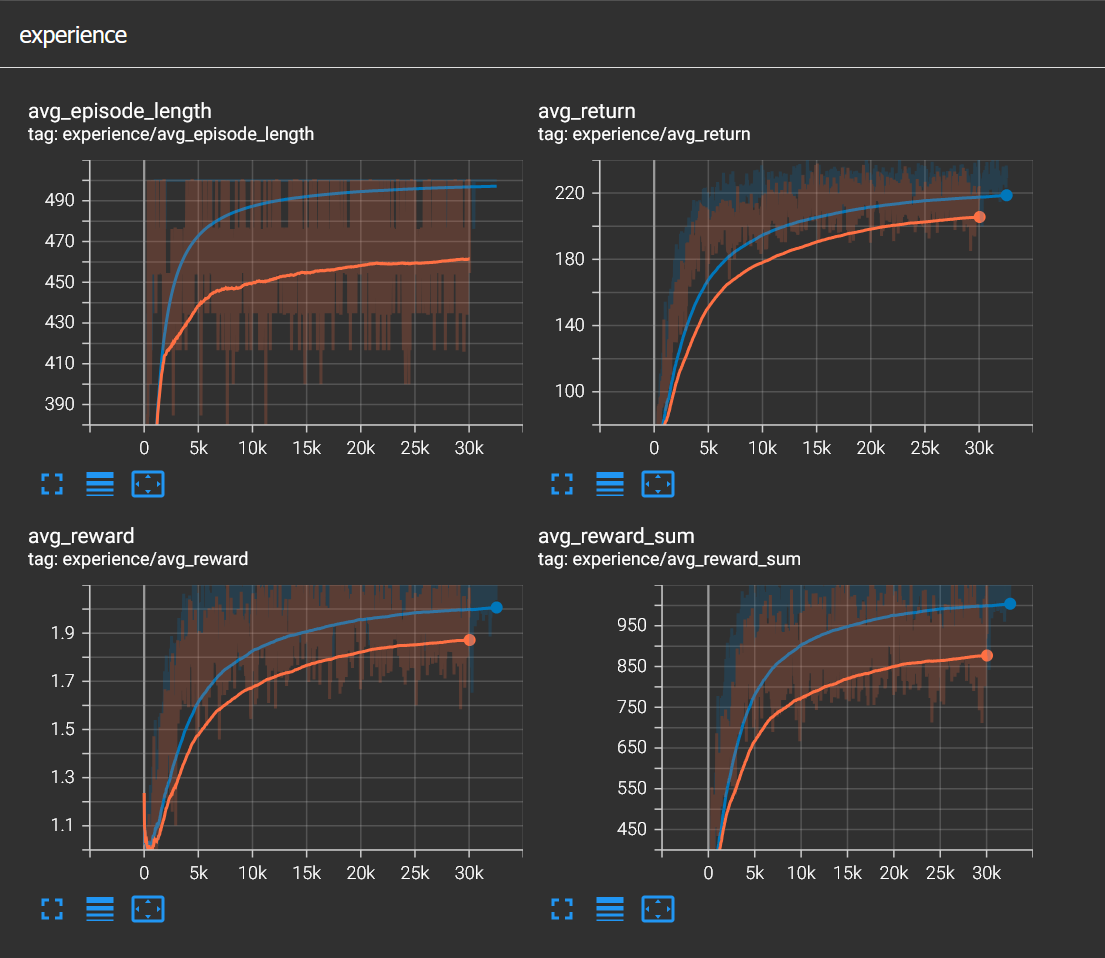
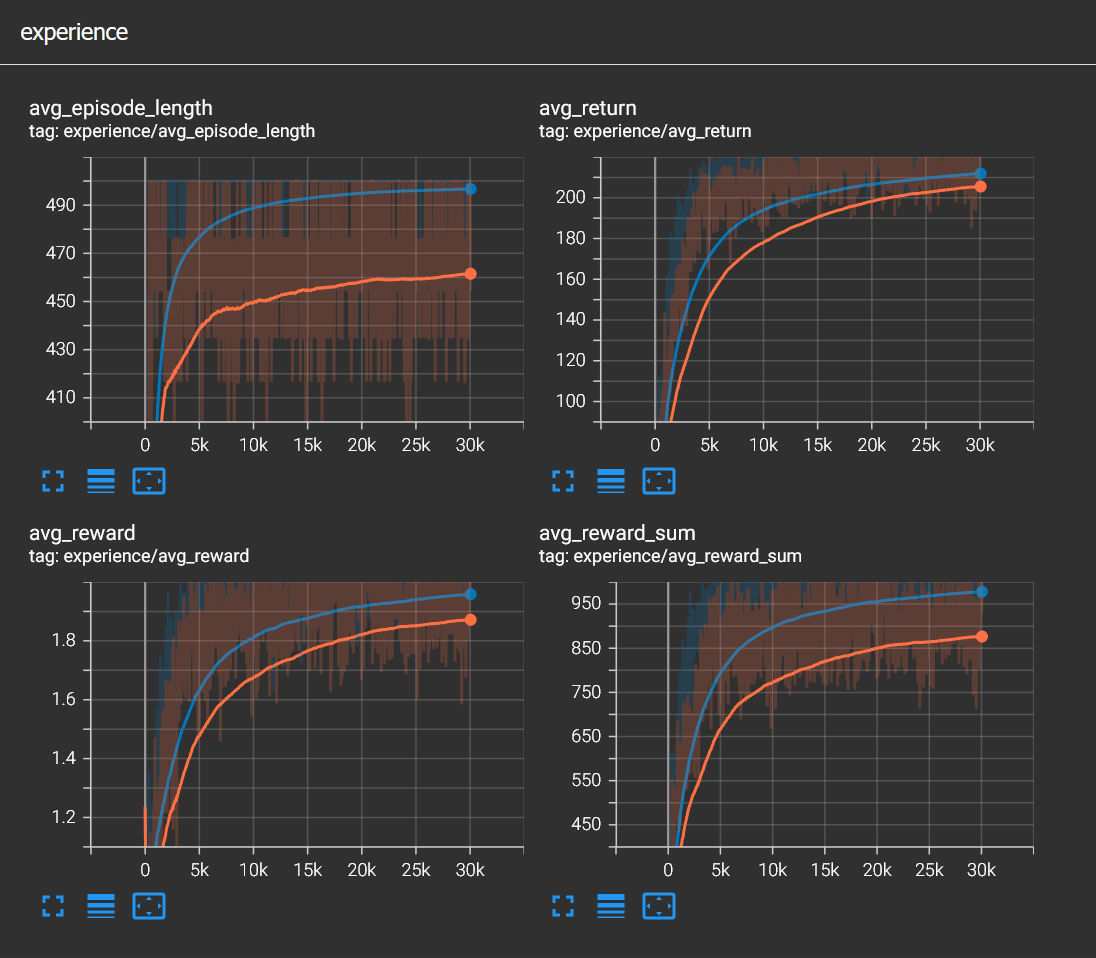
Update post

diff --git a/docs/2026-05-15-baby-steps.html b/docs/2026-05-15-baby-steps.html
@@ -167,11 +167,20 @@ And the agent learned to walk to the target.</p>
     <figcaption>Run, cow, run!</figcaption>
 </figure>
 <p>I love that the agent has developed this cute gallop but I was not satisfied with the gait. The agent relied on one front and one rear leg on opposite sides. To turn right it used rear-left(or rear-right) leg and to turn left it used front-right(or front-left) leg. And the other two legs were used mostly for balance. Honestly I think this is a great strategy given that the agent only observes joint swing angle and angular velocity for each leg. I then played around with physics config a little. Added angular and linear damping to legs and also changed the physics material to rubber, which had higher friction factor. I think it helped with speed and stability but not with the gait.</p>
-<p>I was already satisfied with the result but I wanted to see if I could improve it somehow. I wanted to add some more observations, this time contact information for each leg. I fed the network with 4 booleans, representing contact information for each leg. Unfortunately this made the gait even worse but increased stability a lot. You can see in the image below how average episode length climbed when contact information is observed.</p>
+<p>I was already satisfied with the result but I wanted to see if I could improve it somehow. I wanted to add some more observations, this time contact information for each leg. I fed the network with 4 booleans, representing contact information for each leg. And more importantly I added small negative reward of -0.01 on every tick to increase urgency. The gait has changed and the cute gallop disapaered. And stability has improved a lot. You can see in the image below how average episode length climbed when contact information is observed.
+At this point it is a matter of taste which agent looks better. If you want a cute agent, then probably the first one and if you want an agent that is more stable, second one is to go.</p>
 <figure>
     <img src="/assets/2026-05-15-baby-steps/before_and_after_contact_points.png" alt="Longest training ever">
     <figcaption>Blue represents the training with contact information</figcaption>
 </figure>
+<figure>
+    <video src="/assets/2026-05-15-baby-steps/walk2.mp4" controls playsinline>
+        Your browser does not support the video tag.
+    </video>
+    <figcaption>Lost the gallop but more stable</figcaption>
+</figure>
+<h3>Final Words</h3>
+<p>I'm quite happy with how this experiment turned out. I learned a lot about physics and how chaotic it can get. I also developed more intuition about reinforcement learning.</p>
 
         </main>
         <hr>

diff --git a/source/posts/2026-05-15-baby-steps.md b/source/posts/2026-05-15-baby-steps.md
@@ -155,7 +155,8 @@ And the agent learned to walk to the target.
 
 I love that the agent has developed this cute gallop but I was not satisfied with the gait. The agent relied on one front and one rear leg on opposite sides. To turn right it used rear-left(or rear-right) leg and to turn left it used front-right(or front-left) leg. And the other two legs were used mostly for balance. Honestly I think this is a great strategy given that the agent only observes joint swing angle and angular velocity for each leg. I then played around with physics config a little. Added angular and linear damping to legs and also changed the physics material to rubber, which had higher friction factor. I think it helped with speed and stability but not with the gait.
 
-I was already satisfied with the result but I wanted to see if I could improve it somehow. I wanted to add some more observations, this time contact information for each leg. I fed the network with 4 booleans, representing contact information for each leg. Unfortunately this made the gait even worse but increased stability a lot. You can see in the image below how average episode length climbed when contact information is observed.
+I was already satisfied with the result but I wanted to see if I could improve it somehow. I wanted to add some more observations, this time contact information for each leg. I fed the network with 4 booleans, representing contact information for each leg. And more importantly I added small negative reward of -0.01 on every tick to increase urgency. The gait has changed and the cute gallop disapaered. And stability has improved a lot. You can see in the image below how average episode length climbed when contact information is observed.
+At this point it is a matter of taste which agent looks better. If you want a cute agent, then probably the first one and if you want an agent that is more stable, second one is to go.
 
 <figure>
     <img src="/assets/2026-05-15-baby-steps/before_and_after_contact_points.png" alt="Longest training ever">
@@ -163,4 +164,13 @@ I was already satisfied with the result but I wanted to see if I could improve i
 </figure>
 
 
+<figure>
+    <video src="/assets/2026-05-15-baby-steps/walk2.mp4" controls playsinline>
+        Your browser does not support the video tag.
+    </video>
+    <figcaption>Lost the gallop but more stable</figcaption>
+</figure>
+
+### Final Words
+I'm quite happy with how this experiment turned out. I learned a lot about physics and how chaotic it can get. I also developed more intuition about reinforcement learning.
 """
